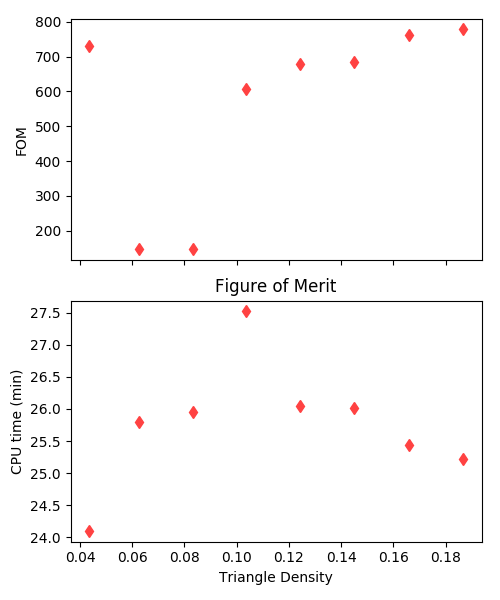
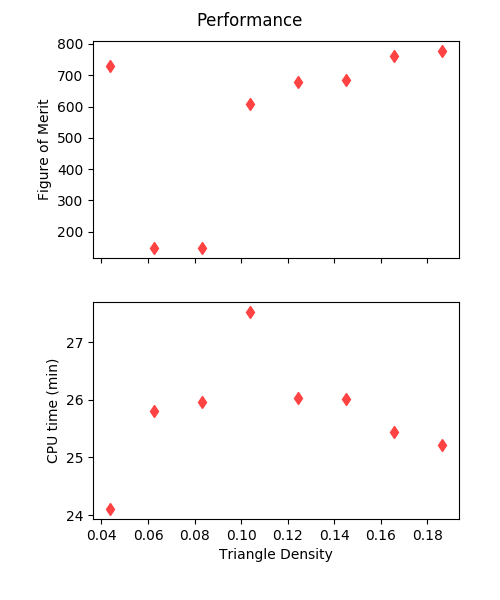
fixed fom plots

diff --git a/performance-analysis/analysis/plot_tally_data.py b/performance-analysis/analysis/plot_tally_data.py
@@ -278,16 +278,16 @@ def plot_fom(df_output, df_measure, refinement):
 
     ax[0].plot(df[measurement], df['fom'], marker=markers['wwig'], ls='',
                color=colors['wwig'], label='WWIG')
-    ax[0].set_ylabel('FOM')
+    ax[0].set_ylabel('Figure of Merit')
     ax[1].plot(df[measurement], df['cpu time'], marker=markers['wwig'], ls='',
                color=colors['wwig'], label='WWIG')
     ax[1].set_ylabel('CPU time (min)')
 
     # labels
-    title = 'Figure of Merit'
-    plt.title(title)
+    title = 'Performance'
+    plt.suptitle(title)
     plt.xlabel(xlabel)
-    plt.tight_layout()
+    plt.tight_layout(pad=2.7, w_pad=.5)
     save_name = 'images/fom_{}.png'.format(refinement)
     plt.savefig(save_name)
 
